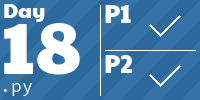
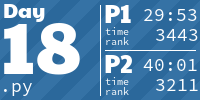
day 18

diff --git a/day_18.py b/day_18.py
@@ -16,13 +16,48 @@ def _parse_args() -> argparse.Namespace:
         parser.error("Which part are you solving?")
     return args
 
+GRID = 70
+BYTES = 1024
+
+def move() -> int:
+    pos = 0
+    dist = 0
+    seen = {pos: True}
+    current = {pos}
+    while complex(GRID, -GRID) not in current:
+        dist += 1
+        new_current = set()
+        for pos in current:
+            for d in (1, -1, 1j, -1j):
+                if pos + d not in seen and grid.get(pos + d, "#") != "#":
+                    new_current.add(pos + d)
+                    seen[pos + d] = True
+        current = new_current
+        if not current:
+            return 0
+    return dist
+
 if __name__ == "__main__":
     args = _parse_args()
     t = time()
     with Path(f"inputs/{Path(__file__).stem}.txt").open("r") as file:
-        data = file.read()
+        data = [[int(x) for x in line.split(",")] for line in file.readlines()]
+    grid = {}
+    for item in data[:BYTES]:
+        grid[complex(item[0], -item[1])] = "#"
+    for r in range(GRID + 1):
+        for i in range(GRID + 1):
+            if complex(r, -i) not in grid:
+                grid[complex(r, -i)] = "."
     if args.part == 1:
-        print(data)
+        print(move())
     else:
-        raise NotImplementedError
+        b = BYTES
+        while b < len(data):
+            item = data[b]
+            grid[complex(item[0], -item[1])] = "#"
+            if not move():
+                print(",".join([str(x) for x in item]))
+                break
+            b += 1
     print(time() - t)

diff --git a/README.md b/README.md
@@ -2,7 +2,7 @@
 
 <!-- AOC TILES BEGIN -->
 <h1 align="center">
-  2024 - 34 ⭐ - Python
+  2024 - 36 ⭐ - Python
 </h1>
 <a href="day_01.py">
   <img src=".aoc_tiles/tiles/2024/01.png" width="161px">
@@ -54,6 +54,9 @@
 </a>
 <a href="day_17.py">
   <img src=".aoc_tiles/tiles/2024/17.png" width="161px">
+</a>
+<a href="day_18.py">
+  <img src=".aoc_tiles/tiles/2024/18.png" width="161px">
 </a>
 <!-- AOC TILES END -->
 
